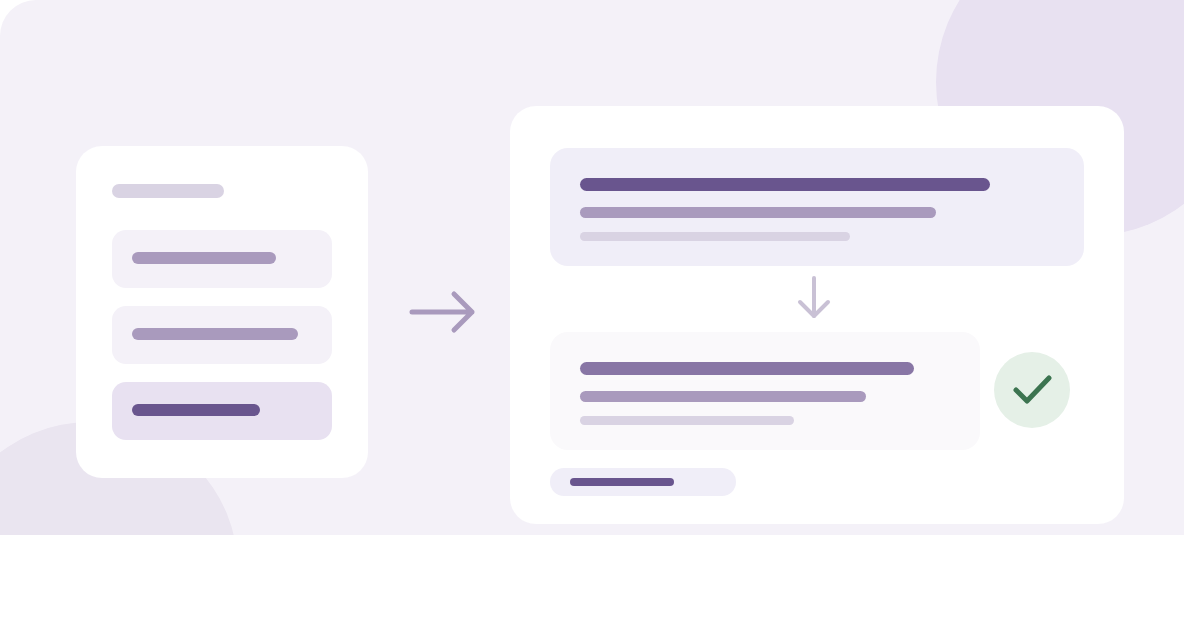
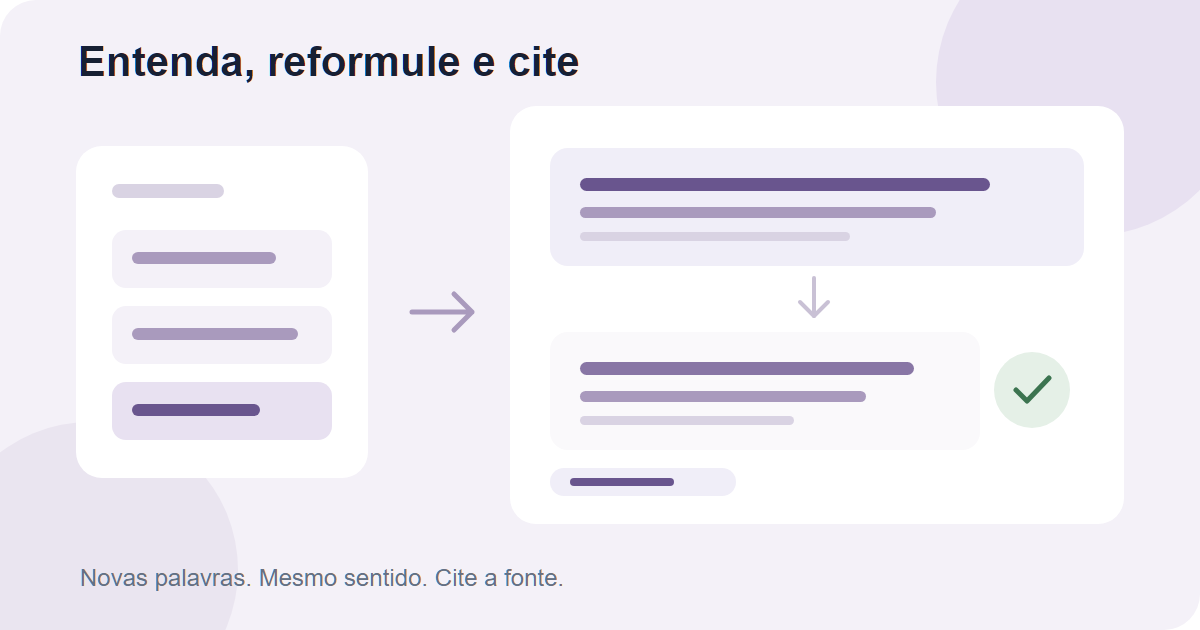
Improve recent blog preview images

Changed region(s): [[0.0, 0.8444, 0.4625, 1.0], [0.0617, 0.0603, 0.4933, 0.1206], [0.9867, 0.0, 1.0, 0.3317]]

diff --git a/tests/seo-content.test.ts b/tests/seo-content.test.ts
@@ -647,6 +647,64 @@ test('every English article has localized Chinese, Spanish, and Portuguese image
   }
 })
 
+test('recent blog illustrations have prominent localized headlines', () => {
+  const englishPosts = [
+    ['how-to-paraphrase-sources', 'Understand, rephrase, and cite'],
+    ['how-to-write-a-thesis-statement', 'Turn a topic into a clear thesis'],
+    ['how-to-write-meeting-minutes', 'Meeting minutes: decisions and actions'],
+  ]
+  const localizedHeadlines = [
+    [
+      parsedSpanishContent.blog.posts['how-to-paraphrase-sources'].image,
+      'Comprende, reformula y cita',
+    ],
+    [
+      parsedSpanishContent.blog.posts['how-to-write-a-thesis-statement'].image,
+      'De tema amplio a tesis clara',
+    ],
+    [
+      parsedSpanishContent.blog.posts['how-to-write-meeting-minutes'].image,
+      'Actas: acuerdos y tareas claras',
+    ],
+    [
+      parsedPortugueseContent.blog.posts['how-to-paraphrase-sources'].image,
+      'Entenda, reformule e cite',
+    ],
+    [
+      parsedPortugueseContent.blog.posts['how-to-write-a-thesis-statement'].image,
+      'De tema amplo a tese clara',
+    ],
+    [
+      parsedPortugueseContent.blog.posts['how-to-write-meeting-minutes'].image,
+      'Atas de reunião: decisões e tarefas',
+    ],
+    [
+      parsedChineseContent.blog.posts['how-to-paraphrase-sources'].image,
+      '理解原意，改写并注明来源',
+    ],
+    [
+      parsedChineseContent.blog.posts['how-to-write-a-thesis-statement'].image,
+      '把宽泛主题变成清晰论点',
+    ],
+    [
+      parsedChineseContent.blog.posts['how-to-write-meeting-minutes'].image,
+      '会议纪要：记录决议与行动',
+    ],
+  ]
+
+  for (const [slug, headline] of englishPosts) {
+    const post = parsedEnglishBlogPosts.find((candidate) => candidate.slug === slug)
+    assert.ok(post, `${slug} exists`)
+    const svg = readFileSync(new URL(`../public/${post.image}`, import.meta.url), 'utf8')
+    assert.ok(svg.includes(headline), `${post.image} displays its headline`)
+  }
+
+  for (const [image, headline] of localizedHeadlines) {
+    const svg = readFileSync(new URL(`../public/${image}`, import.meta.url), 'utf8')
+    assert.ok(svg.includes(headline), `${image} displays its localized headline`)
+  }
+})
+
 test('find-and-replace guide is sourced and has localized author notes', () => {
   const posts = [
     {
